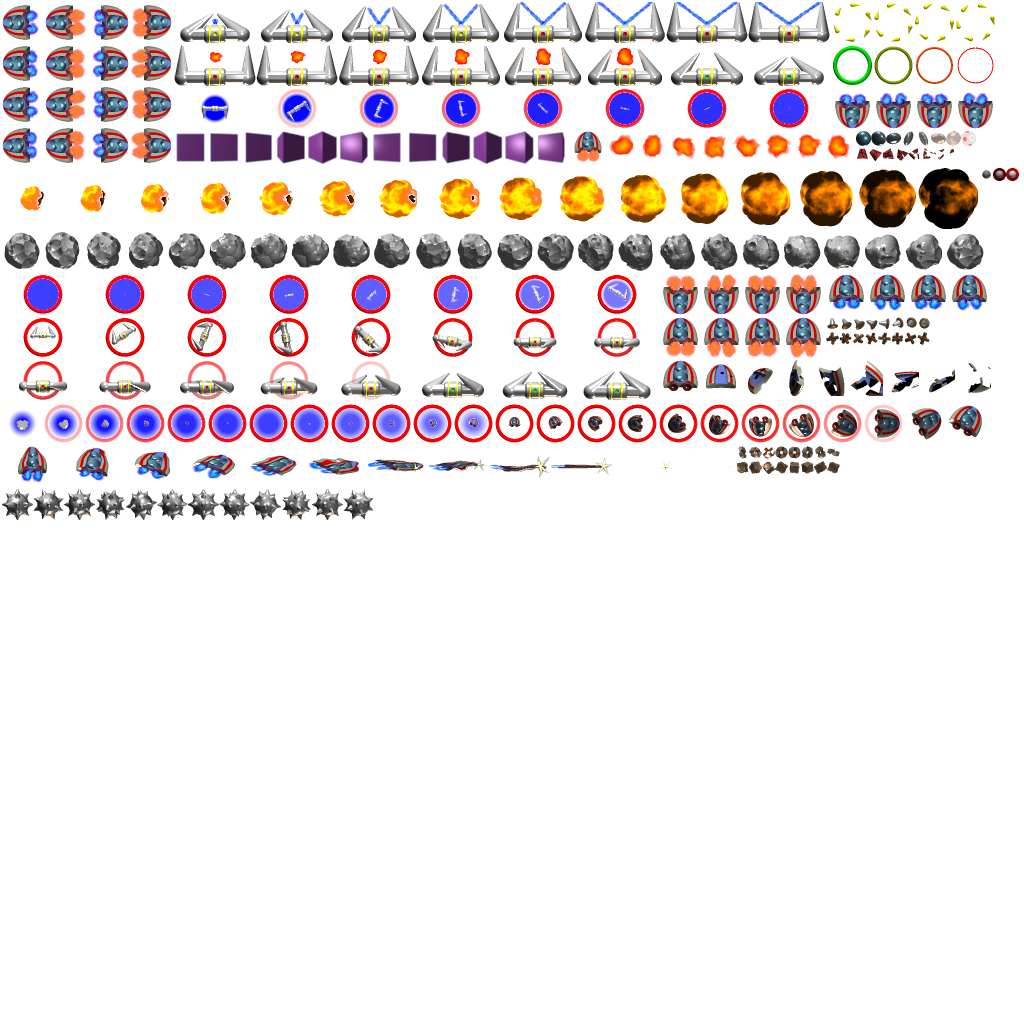
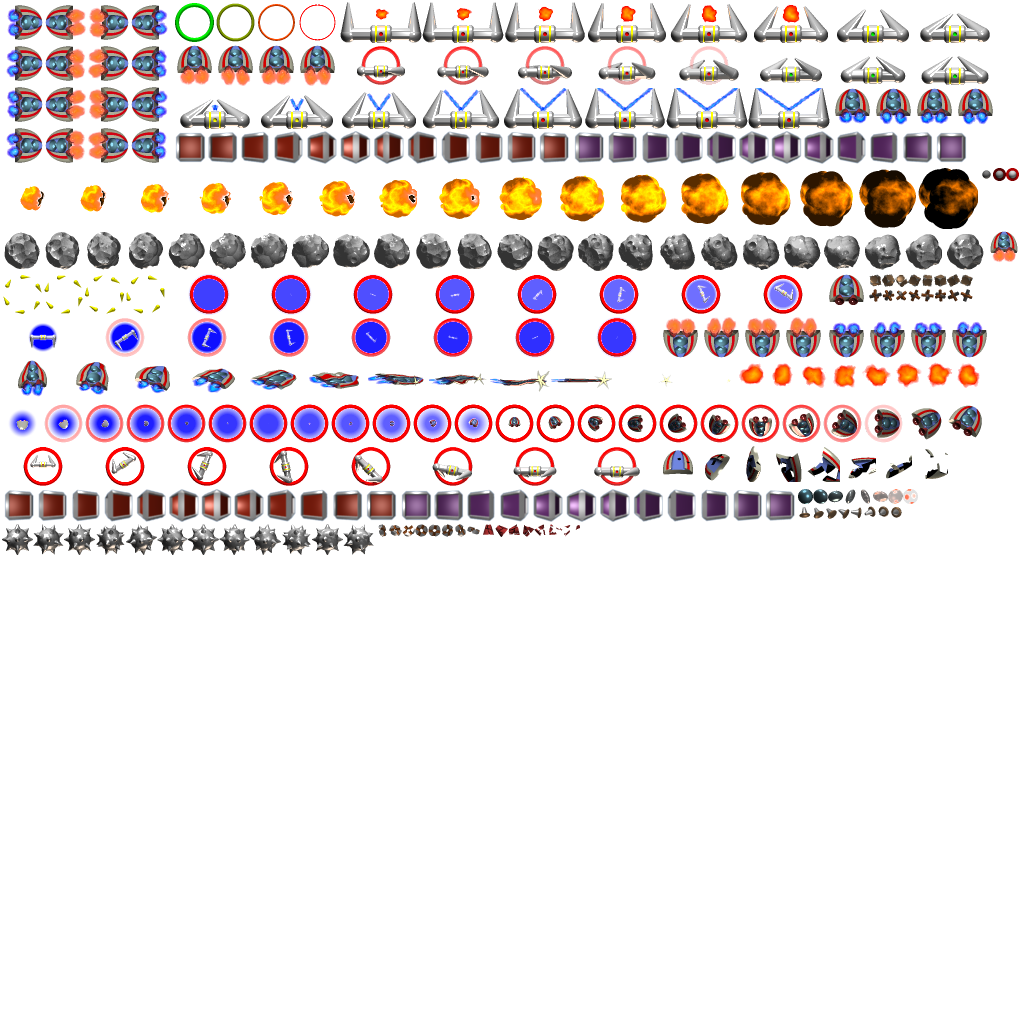
Added new cube graphics

Changed region(s): [[0.0, 0.0, 0.9688, 0.1562], [0.0, 0.2188, 1.0, 0.4062], [0.0, 0.4375, 0.9375, 0.5625]]

diff --git a/Cube.m b/Cube.m
@@ -23,10 +23,14 @@
         width = 33;
         height = 33;
 
-        float delay = 0.06f;
+        float delay = 0.07f;
         int frames = 12;
         animation = [[Animation alloc] init];
-        [self setupAnimation:animation spriteSheet:@"cube1.png" animationDelay:delay numFrames:frames];
+        if (1 == (arc4random() % 2 + 1)) {
+            [self setupAnimation:animation spriteSheet:@"cube_purple.png" animationDelay:delay numFrames:frames];
+        } else {
+            [self setupAnimation:animation spriteSheet:@"cube_purple_reverse.png" animationDelay:delay numFrames:frames];
+        }
         animation.type = kAnimationType_Once;
         state = EntityState_Idle;
         collisionWidth = appDelegate.widthScaleFactor * width *.9;
